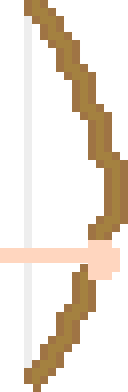
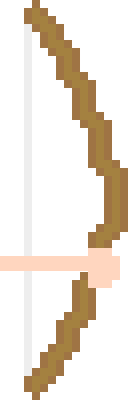
Bow and arrow now load in game.

diff --git a/src/com/benjih/ld28/Arrow.java b/src/com/benjih/ld28/Arrow.java
@@ -1,0 +1,48 @@
+package com.benjih.ld28;
+
+import java.io.IOException;
+
+import org.lwjgl.opengl.GL11;
+import org.newdawn.slick.Color;
+import org.newdawn.slick.opengl.Texture;
+import org.newdawn.slick.opengl.TextureLoader;
+import org.newdawn.slick.util.ResourceLoader;
+
+public class Arrow {
+	private int x, y;
+	private Texture resource;
+	
+	public Arrow () {
+		this.x = 0;
+		this.y = 274;
+		try {
+			this.resource = TextureLoader.getTexture("PNG", ResourceLoader.getResourceAsStream("res/arrow.png"));
+		} catch (IOException e) {
+			e.printStackTrace();
+			System.exit(1);
+		}
+	}
+	
+	public void render () {
+		new Color(255, 255, 255).bind();
+		
+		GL11.glEnable(GL11.GL_TEXTURE_2D); 
+		resource.bind();
+		GL11.glBegin(GL11.GL_QUADS);
+		
+		GL11.glTexCoord2f(0, 0);
+		GL11.glVertex2f(x, y);
+		
+		GL11.glTexCoord2f(1, 0);
+		GL11.glVertex2f(x + resource.getTextureWidth(), y);
+		
+		GL11.glTexCoord2f(1, 1);
+		GL11.glVertex2f(x + resource.getTextureWidth(), y + resource.getTextureHeight());
+		
+		GL11.glTexCoord2f(0, 1);
+		GL11.glVertex2f(x, y + resource.getTextureHeight());
+		
+		GL11.glEnd();
+		GL11.glDisable(GL11.GL_TEXTURE_2D); 
+	}
+}

diff --git a/src/com/benjih/ld28/PlayGame.java b/src/com/benjih/ld28/PlayGame.java
@@ -1,0 +1,35 @@
+package com.benjih.ld28;
+
+import org.lwjgl.opengl.Display;
+
+public class PlayGame {
+	
+	GameDisplay display;
+	
+	public PlayGame (GameDisplay display) {
+		this.display = display;
+	}
+	
+	public void run () {
+		Sprite background = new Sprite(0, 0, "res/background.png");
+		Sprite bow = new Sprite(0, 100, "res/bow.png");
+		Arrow arrow = new Arrow();
+		
+		while(true) {
+			
+			display.blit();
+			
+			background.render();
+			bow.render();
+			arrow.render();
+			
+			if (Display.isCloseRequested()) {
+				display.end();
+			}
+			
+			display.update();
+		}
+		
+	}
+	
+}

diff --git a/src/com/benjih/ld28/Game.java b/src/com/benjih/ld28/Game.java
@@ -10,14 +10,13 @@ public class Game {
 		GameDisplay display = new GameDisplay();
 		display.init();
 		
-		new DeveloperSplash(display).run();
+//		new DeveloperSplash(display).run();
 		
 		while(true) {
 			MenuChoice playerChoice = new MainMenu(display).run();
 			
 			if (playerChoice == MenuChoice.PLAY) {
-				//new Level().run();
-				display.end();
+				new PlayGame(display).run();
 			} else if (playerChoice == MenuChoice.OPTIONS ) {
 				//new Options().run();
 				display.end();
